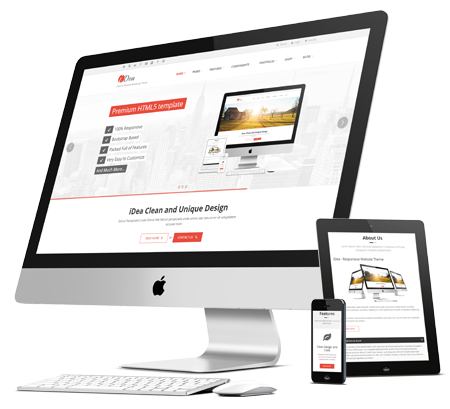
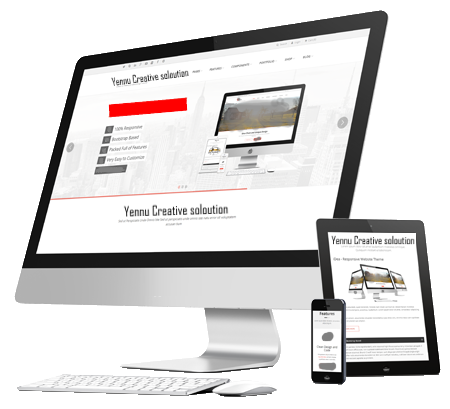
bannner updates

diff --git a/index.html b/index.html
@@ -55,19 +55,19 @@
                         <a href="#services">Services</a>
                     </li>
                     <!--li>
-                        <a href="#contact">Careers</a>
-                    </li>
-                    <li>
-                        <a href="#contact">Projects</a>
-                    </li--!>
-                    <li>
-                        <a href="#contact">Contact</a>
-                    </li>
-                </ul>
+                                <a href="#contact">Careers</a>
+                            </li>
+                            <li>
+                                <a href="#contact">Projects</a>
+                            </li--!>
+                            <li>
+                                <a href="#contact">Contact</a>
+                            </li>
+                        </ul>
+                    </div>
+                    <!-- /.navbar-collapse -->
             </div>
-            <!-- /.navbar-collapse -->
-        </div>
-        <!-- /.container -->
+            <!-- /.container -->
     </nav>
 
 
@@ -79,20 +79,39 @@
             <div class="row">
                 <div class="col-lg-12">
                     <div class="intro-message">
+                        <div class="col-lg-6">
+                            <h1>Landing Page</h1>
+                            <h3>This is home page with bit of descirption</h3>
+                            <hr class="intro-divider">
+                            <ul class="list-inline intro-social-buttons">
+                                <li>
+                                    <a href="https://twitter.com/SBootstrap" class="btn btn-default btn-lg"><i class="fa fa-twitter fa-fw"></i> <span class="network-name">Twitter</span></a>
+                                </li>
+                                <li>
+                                    <a href="https://github.com/IronSummitMedia/startbootstrap" class="btn btn-default btn-lg"><i class="fa fa-github fa-fw"></i> <span class="network-name">Github</span></a>
+                                </li>
+                                <li>
+                                    <a href="#" class="btn btn-default btn-lg"><i class="fa fa-linkedin fa-fw"></i> <span class="network-name">Linkedin</span></a>
+                                </li>
+                            </ul>
+
+                        </div>
+
+                        <img src="img/slider-1-layer-2.png" />
                         <!--<h1>Landing Page</h1>
-                        <h3>This is home page with bit of descirption</h3>
-                        <hr class="intro-divider">
-                        <ul class="list-inline intro-social-buttons">
-                            <li>
-                                <a href="https://twitter.com/SBootstrap" class="btn btn-default btn-lg"><i class="fa fa-twitter fa-fw"></i> <span class="network-name">Twitter</span></a>
-                            </li>
-                            <li>
-                                <a href="https://github.com/IronSummitMedia/startbootstrap" class="btn btn-default btn-lg"><i class="fa fa-github fa-fw"></i> <span class="network-name">Github</span></a>
-                            </li>
-                            <li>
-                                <a href="#" class="btn btn-default btn-lg"><i class="fa fa-linkedin fa-fw"></i> <span class="network-name">Linkedin</span></a>
-                            </li>
-                        </ul>-->
+        <h3>This is home page with bit of descirption</h3>
+        <hr class="intro-divider">
+        <ul class="list-inline intro-social-buttons">
+            <li>
+                <a href="https://twitter.com/SBootstrap" class="btn btn-default btn-lg"><i class="fa fa-twitter fa-fw"></i> <span class="network-name">Twitter</span></a>
+            </li>
+            <li>
+                <a href="https://github.com/IronSummitMedia/startbootstrap" class="btn btn-default btn-lg"><i class="fa fa-github fa-fw"></i> <span class="network-name">Github</span></a>
+            </li>
+            <li>
+                <a href="#" class="btn btn-default btn-lg"><i class="fa fa-linkedin fa-fw"></i> <span class="network-name">Linkedin</span></a>
+            </li>
+        </ul>-->
                     </div>
                 </div>
             </div>
@@ -118,7 +137,7 @@
             <!-- Page Features -->
             <div class="row text-center">
                 <a href="#">
-                    <div class="col-md-3 col-sm-6 hero-feature" >
+                    <div class="col-md-3 col-sm-6 hero-feature">
                         <div class="thumbnail" style="padding:10px;">
                             <!--<img src="img/Strategy2_flowchart-icon-on-a-white-background.jpg" />-->
                             <img src="img/Digital_Strategy.jpg" />
@@ -133,7 +152,7 @@
                     <div class="col-md-3 col-sm-6 hero-feature">
                         <div class="thumbnail">
                             <img src="img/responsive-website-on-different-devices.jpg" />
-                            
+
                             <div class="caption">
                                 <h3>Web Development</h3>
                                 <p>Discover how our talented team use the latest technology and techniques to make the web work for your business and your clients.</p>
@@ -174,7 +193,7 @@
         <div class="container">
             <div class="row">
                 <div class="col-lg-12">
-                    <h2>Making the world more beautiful one pixel at a time</h2>                    
+                    <h2>Making the world more beautiful one pixel at a time</h2>
                     <blockquote>
                         <p>
                             We’re a multi award-winning full service creative digital agency, specialising in beautiful,
@@ -186,7 +205,7 @@
                             Our commitment to excellence in all that we do is second to none. We would love to hear about your challenges and explain
                             the possibilities. We also make a lovely cuppa, so why not give us a call or bob in for chat?
                         </p>
-                        </blockquote>                           
+                    </blockquote>
                 </div>
             </div>
         </div>
@@ -225,7 +244,7 @@
                     <p class="lead">Your website is likely to be a fundamental part of a whole bunch of systems. Each of these needs to talk to it, share with it and exchange information with it. We have never come across anything that we could not integrate with.</p>
                 </div>
                 <div class="col-lg-5 col-sm-pull-6  col-sm-6">
-                    <img class="img-responsive" src="img/mac1.jpg" alt="">
+                    <img class="img-responsive" src="img/mac.jpg" alt="">
                 </div>
             </div>
 

diff --git a/css/landing-page.css b/css/landing-page.css
@@ -36,7 +36,7 @@ h6 {
     /*padding-bottom: 50px;*/
     text-align: right;
     color: #f8f8f8;
-    background: url(../img/london2.jpg) no-repeat center center;    
+    background: url(../img/london3.jpg) no-repeat center center;    
      
   -webkit-background-size: cover;
   -moz-background-size: cover;
@@ -49,8 +49,8 @@ h6 {
 
 .intro-message {
     position: relative;
-    padding-top: 20%;
-    padding-bottom: 20%;
+    /*padding-top: 20%;*/
+    padding-bottom: 3%;
 }
 
 .intro-message > h1 {
